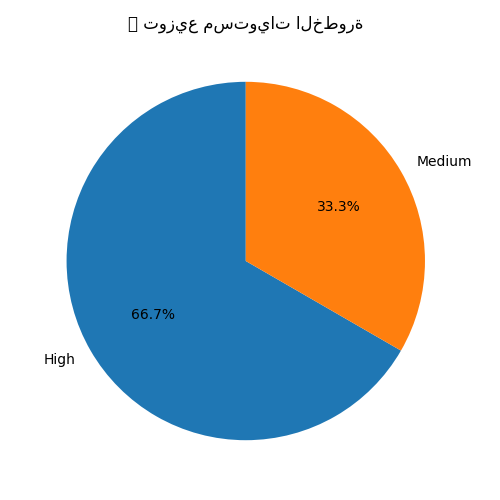
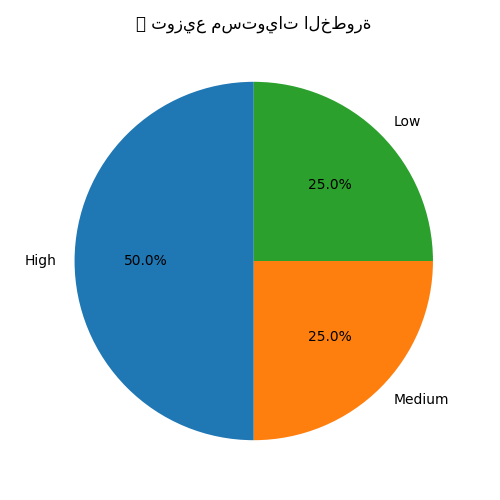
رفع المشروع بشكل نهائي لأغراض العرض والتقييم

diff --git a/app.py b/app.py
@@ -11,8 +11,14 @@ from dotenv import load_dotenv
 from parser.burp_parser import parse_burp_xml
 from parser.semgrep.semgrep_scanner import run_semgrep_scan
 
+# تحميل المفتاح من env
 load_dotenv()
 openai.api_key = os.getenv("OPENAI_API_KEY")
+
+# فحص المفتاح والتأكيد
+print("✅ env موجود؟:", os.path.exists(".env"))
+print("🔑 المفتاح تم تحميله؟:", bool(openai.api_key))
+
 app = Flask(__name__)
 
 @app.route("/", methods=["GET", "POST"])
@@ -62,9 +68,11 @@ def download_excel():
     ws.title = "نتائج التحليل"
     now = datetime.now().strftime("%Y-%m-%d %H:%M")
     ws.merge_cells("A1:I1")
-    ws["A1"] = f"تاريخ التحليل: {now}"
-    ws["A1"].font = Font(bold=True)
+    ws["A1"] = f"📅 تاريخ التحليل: {now}"
+    ws["A1"].font = Font(bold=True, color="FFFFFF")
+    ws["A1"].fill = PatternFill("solid", fgColor="00C3FF")
     ws["A1"].alignment = Alignment(horizontal="center", vertical="center")
+
     header_font = Font(bold=True, color="FFFFFF")
     header_fill = PatternFill("solid", fgColor="00C3FF")
     align_center = Alignment(horizontal="center", vertical="center", wrap_text=True)
@@ -77,6 +85,7 @@ def download_excel():
     for r_idx, row in enumerate(df.itertuples(index=False), 3):
         for c_idx, value in enumerate(row, 1):
             ws.cell(row=r_idx, column=c_idx, value=str(value)).alignment = align_center
+
     if "severity" in df.columns:
         severity_counts = df["severity"].value_counts()
         plt.figure(figsize=(5, 5))
@@ -92,6 +101,7 @@ def download_excel():
             img.height = 300
             img.anchor = "J3"
             ws.add_image(img)
+
     output_path = "exports/analysis_results_one.xlsx"
     wb.save(output_path)
     return send_file(output_path, as_attachment=True)
@@ -105,17 +115,27 @@ def download_excel_append():
     df = pd.DataFrame(results)
     file_path = "exports/analysis_results.xlsx"
     os.makedirs("exports", exist_ok=True)
+    now = datetime.now().strftime("%Y-%m-%d %H:%M")
+
     if os.path.exists(file_path):
         wb = load_workbook(file_path)
         ws = wb.active
-        start_row = ws.max_row + 2
+        last_row = ws.max_row + 2
+        ws.insert_rows(last_row)
+        ws.merge_cells(start_row=last_row, start_column=1, end_row=last_row, end_column=9)
+        cell = ws.cell(row=last_row, column=1, value=f"📅 تاريخ التحليل: {now}")
+        cell.font = Font(bold=True, color="FFFFFF")
+        cell.fill = PatternFill("solid", fgColor="00C3FF")
+        cell.alignment = Alignment(horizontal="center", vertical="center")
+        start_row = last_row + 1
     else:
         wb = Workbook()
         ws = wb.active
         ws.title = "نتائج التحليل"
         ws.merge_cells("A1:I1")
-        ws["A1"] = "📊 سجل تحاليل Burp Smart Eye"
-        ws["A1"].font = Font(bold=True)
+        ws["A1"] = f"📅 تاريخ التحليل: {now}"
+        ws["A1"].font = Font(bold=True, color="FFFFFF")
+        ws["A1"].fill = PatternFill("solid", fgColor="00C3FF")
         ws["A1"].alignment = Alignment(horizontal="center", vertical="center")
         header_font = Font(bold=True, color="FFFFFF")
         header_fill = PatternFill("solid", fgColor="00C3FF")
@@ -127,11 +147,28 @@ def download_excel_append():
             cell.alignment = align_center
             ws.column_dimensions[cell.column_letter].width = 40
         start_row = 3
-    now = datetime.now().strftime("%Y-%m-%d %H:%M")
+
+        # مخطط دائري فقط عند الإنشاء لأول مرة
+        if "severity" in df.columns:
+            severity_counts = df["severity"].value_counts()
+            plt.figure(figsize=(5, 5))
+            plt.pie(severity_counts, labels=severity_counts.index, autopct="%1.1f%%", startangle=90)
+            plt.title("📊 توزيع مستويات الخطورة", fontsize=12)
+            plt.tight_layout()
+            chart_path = os.path.join("static", "severity_chart_append.png")
+            plt.savefig(chart_path, format="png")
+            plt.close()
+            if os.path.exists(chart_path):
+                img = ExcelImage(chart_path)
+                img.width = 300
+                img.height = 300
+                img.anchor = "J3"
+                ws.add_image(img)
+
     for i, row in df.iterrows():
         for j, value in enumerate(row, 1):
             ws.cell(row=start_row + i, column=j, value=str(value))
-        ws.cell(row=start_row + i, column=len(df.columns) + 1, value=now)
+
     wb.save(file_path)
     return send_file(file_path, as_attachment=True)
 
